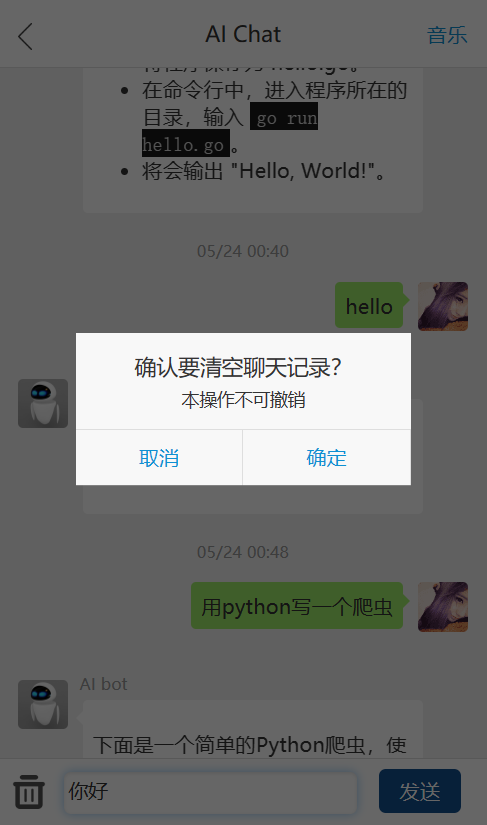
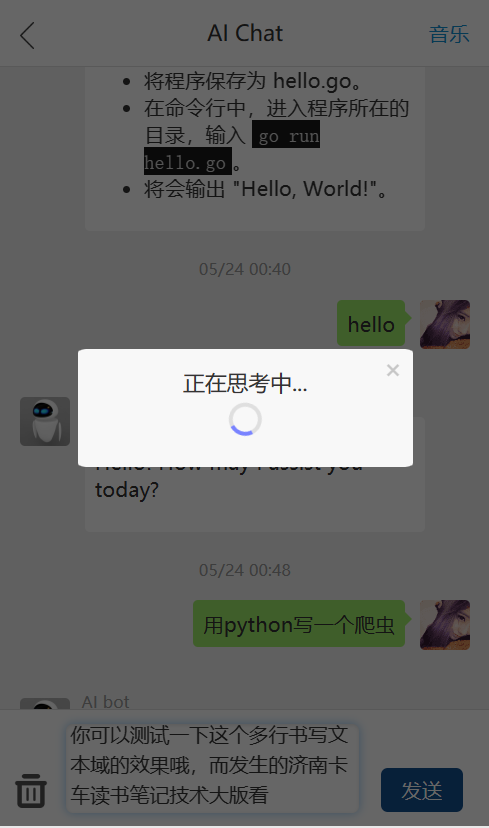
Site:Initial commit

diff --git a/README.md b/README.md
@@ -8,12 +8,18 @@ ChatGPT H5移动客户端，借助第三方API实现。
 
 - 可打包为`apk` 或 `ipa`
 - 支持代码高亮显示
+- 支持markdown显示
+- 支持多行文本域
+- 保存聊天记录
 - 支持关联上下文
 - 足够简单，易于修改
 
 ## Preview
 
-![screenshot](images/chat1.jpg)  ![screenshot](images/chat2.jpg)
+| screenshot1 | screenshot2 |
+|:-|--|
+| ![page1](images/chat1.png) | ![page2](images/chat2.png) |
+
 
 ## License
 
